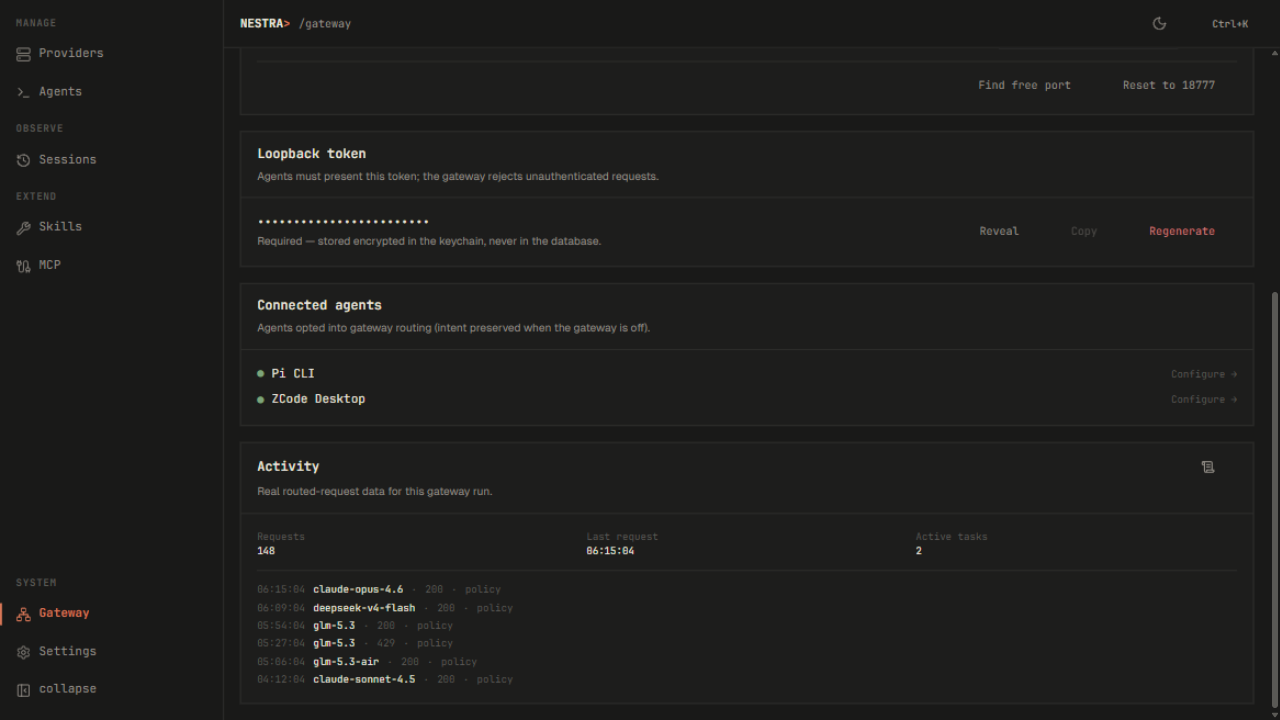
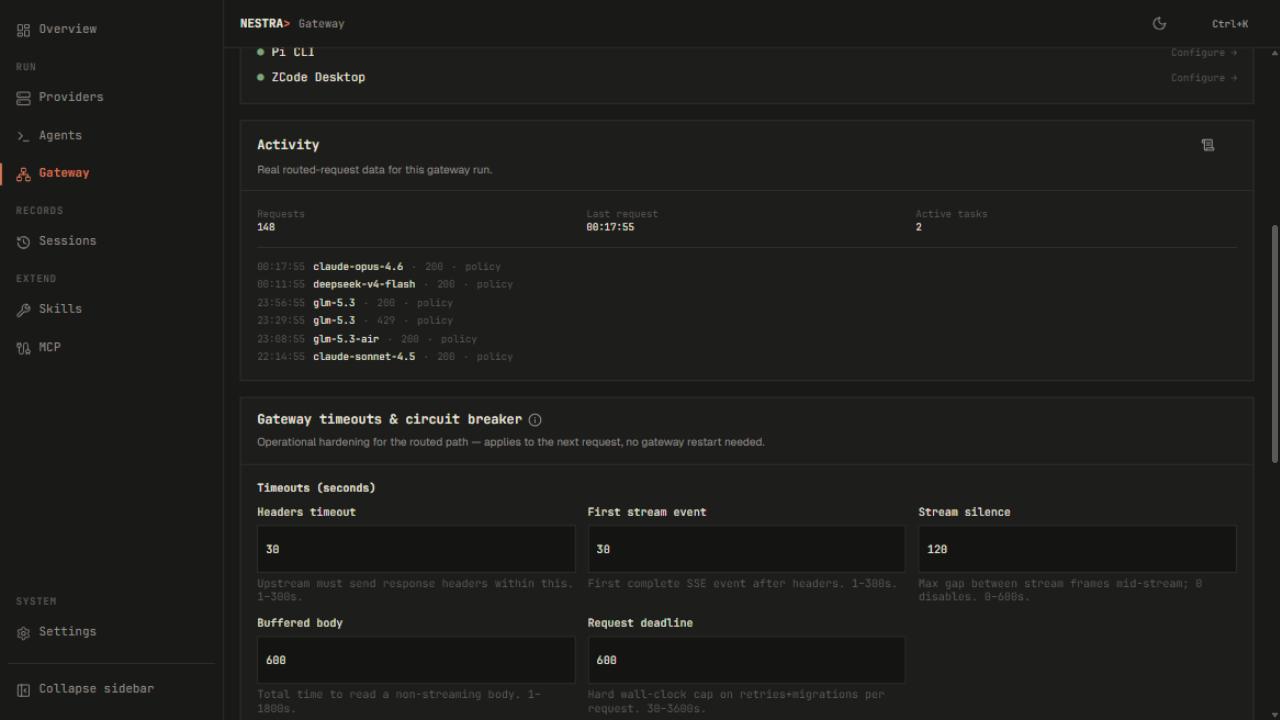
docs(readme): v0.1.3 screenshot refresh
All four gallery captures regenerated on the v0.1.3 UI, plus two new
frames (overview dashboard, agents) expanding the gallery to 2x3:
overview leads as the new landing page; gateway scrolled to start at
the breaker-health card so breaker + agents + activity share one frame;
routing captured full-page at a 1385px viewport (the editor's inner
scroll container means fullPage capture can't reach below the fold —
a tall viewport lets the content column expand instead). All captures
from the dev-only seed mode (?seed=example), 1280x720 unless noted.

diff --git a/README.md b/README.md
@@ -14,11 +14,15 @@
 
 <table>
   <tr>
-    <td><img src="docs/screenshots/gateway.png" alt="Gateway — runtime state, routing activity"></td>
-    <td><img src="docs/screenshots/routing.png" alt="Per-role routing policy editor"></td>
+    <td><img src="docs/screenshots/overview.png" alt="Overview — gateway health, 30-day usage, agent modes, anomalies"></td>
+    <td><img src="docs/screenshots/gateway.png" alt="Gateway — breaker health, routed agents, live activity"></td>
   </tr>
   <tr>
+    <td><img src="docs/screenshots/routing.png" alt="Per-role routing policy editor with ordered target chains"></td>
     <td><img src="docs/screenshots/providers.png" alt="Providers with quota bars and breaker health"></td>
+  </tr>
+  <tr>
+    <td><img src="docs/screenshots/agents.png" alt="Agents with mode, status, and 30-day usage"></td>
     <td><img src="docs/screenshots/sessions.png" alt="Sessions with context detail"></td>
   </tr>
 </table>
